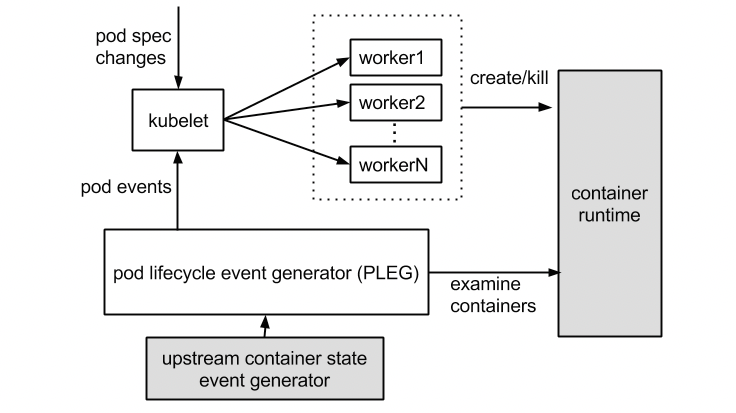
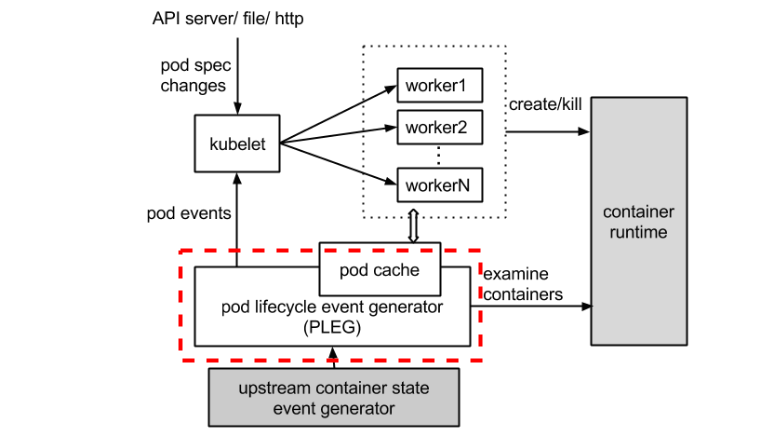
update

diff --git a/_posts/2022-05-15-k8s-security-research.md b/_posts/2022-05-15-k8s-security-research.md
@@ -16,6 +16,25 @@ excerpt: Kubernetes Security Research
 ## 概览
 ![](/assets/img/k8s_sec1.jpg)
 
+## 威胁分析
+
+### 伪造欺骗
+
+### 篡改
+
+### 抵赖
+
+### 拒绝服务
+
+- 触发代码中的`panic`函数
+- 触发死循环
+- 触发channel堵塞
+- 触发死锁
+
+### 信息泄露
+
+### 权限提升
+
 ## 组件
 
 ### kubectl
@@ -69,6 +88,8 @@ storageclasses              |  sc
 
 ### kubelet
 kubelet 是在每个 Node 节点上运行的主要 “节点代理”，接受通过各种机制（主要是通过 apiserver）提供的一组 PodSpec，并确保这些 PodSpec 中描述的容器处于运行状态且运行状况良好
+![](/assets/img/k8s_sec6.jpg)
+![](/assets/img/k8s_sec7.png)
 
 #### 命令行/配置
 > 修改`/etc/systemd/system/kubelet.service.d/10-kubeadm.conf`变更启动参数，执行`systemctl daemon-reload`加载新配置，重启`systemctl restart kubelet`
@@ -89,8 +110,26 @@ kubelet监听在10250端口，开放了一些API，可通过HTTPS访问。主要
 
 ##### Manager
 
-- PLEG (Pod Lifecycle Events Generator)：定期检查节点上Pod运行情况，如果发现感兴趣的变化，PLEG就会把这种变化包装成Event发送给Kubelet的主同步机制syncLoop去处理
+- [PLEG](https://developers.redhat.com/blog/2019/11/13/pod-lifecycle-event-generator-understanding-the-pleg-is-not-healthy-issue-in-kubernetes)：定期检查节点上Pod运行情况，如果发现感兴趣的变化，PLEG就会把这种变化包装成Event发送给Kubelet的主同步机制syncLoop去处理
 ![](/assets/img/k8s_sec2.png)
+	- 在`SyncLoop`中检查`PLEG`的健康状态，如果超过3分钟没有更新则报错
+	![](/assets/img/k8s_sec3.png)
+	- `kubelet.go:NewMainKubelet`中创建`pleg.NewGenericPLEG`，默认1秒`relist`一次更新pod状态
+	![](/assets/img/k8s_sec4.png)
+	- `relist`调用`runtime.GetPods`获取`pod`的状态(Running、Existed、Unknow、NonExisted)
+	![](/assets/img/k8s_sec5.png)
+	- `SyncLoop`消费`PLEG`消息，执行相应处理
+	- [其他分析文章](https://wenfeng-gao.github.io/post/k8s-pleg-source-code-analysis/)
+
+- [PodConfig](https://developpaper.com/kubelet-source-code-analysis-monitoring-pod-changes/)：持续监测本地manifest、manifest url、apiserver处的Pod配置变化，主要代码实现在`config`目录下
+![](/assets/img/k8s_sec6.png)
+	- [Pod删除时发生了什么](https://wenfeng-gao.github.io/post/source-code-kubelet-what-happened-to-kubelet-when-pod-is-deleted/)
+- SyncLoop
+	- configCh
+	![](/assets/img/k8s_sec8.png)
+	- plegCh
+	获取`PLEG`消息，如果消息不是`ContainerRemoved`则调用`handler.HandlePodSyncs`，回收`Pod`中停止的容器。比如用`docker stop`停止一个容器，`plegCh`就会返回`ContainerDied`消息，`kubelet`会重启这个容器
+
 
 #### 漏洞
 
